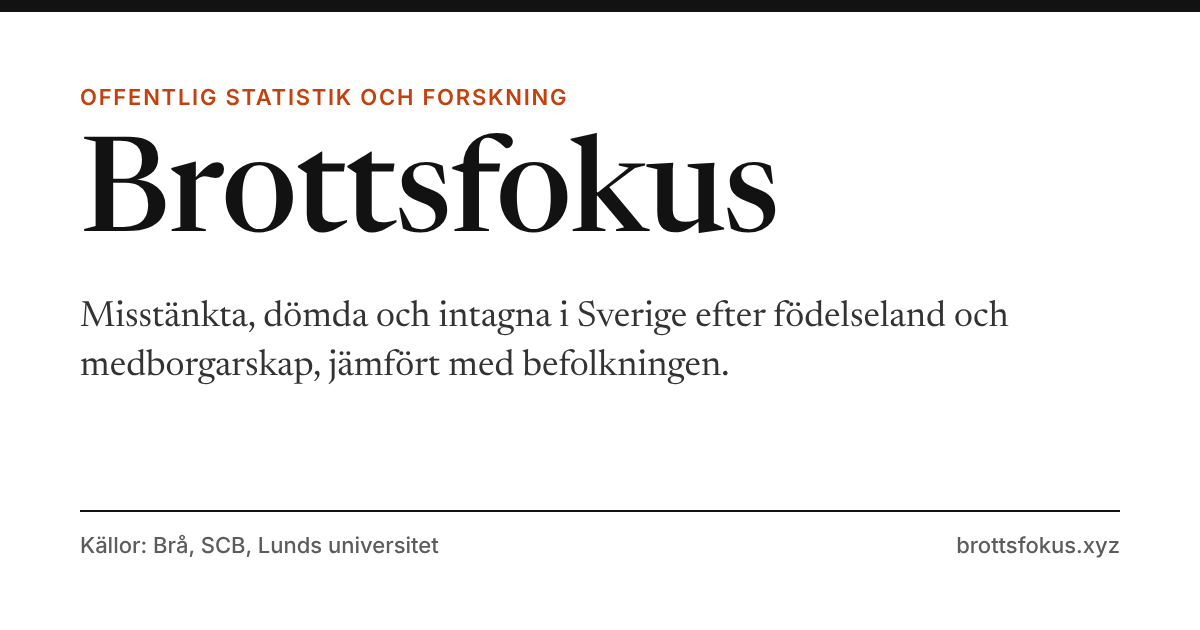
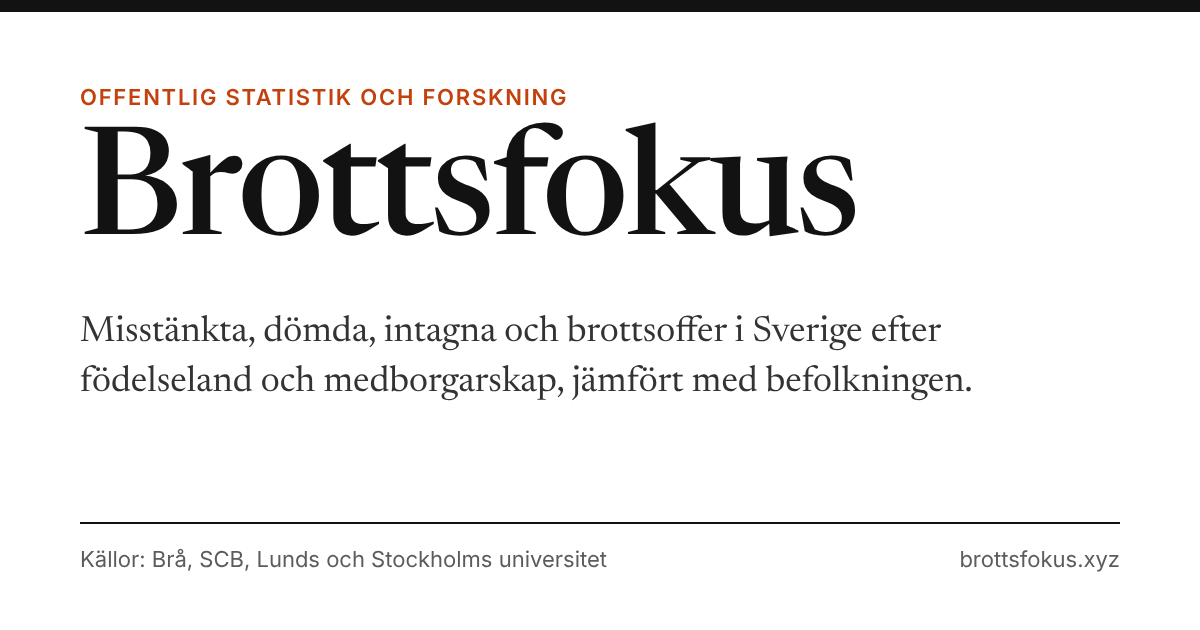
Describe all ten chapters in the masthead, share images and llms.txt
- Masthead and meta description: add victims of crime. Sources line: add
  Stockholms universitet (Bäckman et al.).
- Share image redrawn with the new text, plus an English one (og-en.png)
  used by the English pages. scripts/og-image.cjs draws both from the
  site's own fonts.
- llms.txt: add Stockholms universitet and caveats for the newer chapters
  (different background groupings, the victim survey, unsolved homicides,
  the birth-cohort population).
- Chapter 4 summary (table page and llms.txt): say the population share
  covers all ages and both sexes while the convicted were almost all men 15-60.

Claude-Session: https://claude.ai/code/session_017CY9ZG95hr9Y1RA4eL2mSp

Changed region(s): [[0.0617, 0.181, 0.7092, 0.3921], [0.0617, 0.4825, 0.8325, 0.6333], [0.0617, 0.7841, 0.9558, 0.9048]]

diff --git a/src/lib/tablePageContent.ts b/src/lib/tablePageContent.ts
@@ -528,13 +528,14 @@ function kap4(lang: Lang): TablePageContent {
     lead: T(
       `Av dem som dömdes för våldtäkt mot en kvinna 2000–2015 var ${pct(utr.pct)} utrikesfödda och ` +
         `${pct(u2.pct)} inrikesfödda med två utrikesfödda föräldrar, enligt en registerstudie från Lunds ` +
-        `universitet. I befolkningen var andelarna i snitt ${n(t.popForeignBorn)} och ` +
-        `${pct(t.popTwoForeignParents)}. I en senare studie av dömda 2000–2020 var ` +
+        `universitet. I befolkningen, alla åldrar och båda könen, var andelarna i snitt ${n(t.popForeignBorn)} och ` +
+        `${pct(t.popTwoForeignParents)}. De dömda var nästan bara män 15–60 år. I en senare studie av dömda 2000–2020 var ` +
         `${pct(utrC.pct)} av de dömda utrikesfödda, jämfört med ${pct(utrC.pctControls)} ` +
         'i en kontrollgrupp med samma kön och födelseår.',
       `Of those convicted of rape against a woman in 2000–2015, ${pct(utr.pct)} were born abroad and ${pct(u2.pct)} were born ` +
-        `in Sweden with two foreign-born parents, according to a register study from Lund University. In the population, the ` +
-        `shares were on average ${pct(t.popForeignBorn)} and ${pct(t.popTwoForeignParents)}. In a later study of those convicted ` +
+        `in Sweden with two foreign-born parents, according to a register study from Lund University. In the population, all ages ` +
+        `and both sexes, the shares were on average ${pct(t.popForeignBorn)} and ${pct(t.popTwoForeignParents)}. The convicted were almost all ` +
+        `men aged 15–60. In a later study of those convicted ` +
         `in 2000–2020, ${pct(utrC.pct)} of the convicted were born abroad, compared with ${pct(utrC.pctControls)} in a control ` +
         'group of the same sex and birth year.',
     ),

diff --git a/src/lib/site.ts b/src/lib/site.ts
@@ -12,12 +12,16 @@ export const site = {
     en: 'Brottsfokus: crime, country of birth and citizenship statistics for Sweden',
   } as Record<Lang, string>,
   description: {
-    sv: 'Officiell statistik och forskning om misstänkta, dömda och intagna i Sverige efter födelseland, föräldrarnas födelseland och medborgarskap, jämfört med befolkningen.',
-    en: 'Official statistics and research on suspects, convicted people and prisoners in Sweden, by country of birth, parents’ country of birth and citizenship, compared with the population.',
+    sv: 'Officiell statistik och forskning om misstänkta, dömda, intagna och brottsoffer i Sverige efter födelseland, föräldrarnas födelseland och medborgarskap, jämfört med befolkningen.',
+    en: 'Official statistics and research on suspects, convicted people, prisoners and victims of crime in Sweden, by country of birth, parents’ country of birth and citizenship, compared with the population.',
   } as Record<Lang, string>,
   // Build date in Swedish time (ISO, e.g. "2026-11-13"). The masthead shows month and year.
   updated: new Intl.DateTimeFormat('sv-SE', { timeZone: 'Europe/Stockholm' }).format(new Date()),
-  shareImage: 'https://brottsfokus.xyz/og.png',
+  // Drawn by scripts/og-image.cjs. One per language.
+  shareImage: {
+    sv: 'https://brottsfokus.xyz/og.png',
+    en: 'https://brottsfokus.xyz/og-en.png',
+  } as Record<Lang, string>,
   // Terms for the tables and CSV files the site publishes. Brå lets its statistics be reused
   // freely if Brå is named; SCB publishes under CC BY 4.0. CC BY 4.0 keeps both requirements.
   dataLicense: {

diff --git a/src/lib/markdown.ts b/src/lib/markdown.ts
@@ -82,7 +82,7 @@ export function llmsTxt(
     '',
     `> ${site.description.sv}`,
     '',
-    'Sidan sammanställer offentlig statistik och forskning från Brå, SCB och Lunds universitet. Varje siffra har en källa. ' +
+    'Sidan sammanställer offentlig statistik och forskning från Brå, SCB, Lunds universitet och Stockholms universitet. Varje siffra har en källa. ' +
       'Sidan drar inga egna slutsatser och tar inte ställning. Det finns också en engelsk version under /en/.',
     '',
     'Viktigt när siffrorna används:',
@@ -92,6 +92,10 @@ export function llmsTxt(
     '- Medborgarskap är inte födelseland. Fängelsestatistiken omfattar personer som inte bor i Sverige och inte finns i befolkningssiffrorna.',
     '- Studierna om våldtäkt gäller dömda, inte alla som begår brottet.',
     '- Brås studie från 2005 bygger på uppgifter som är över 20 år gamla.',
+    '- Indelningen efter bakgrund skiljer sig mellan källorna, till exempel vad som räknas som utländsk bakgrund. Varje sida anger vilken indelning som används.',
+    '- Siffrorna om att utsättas för brott bygger på en enkät till personer 16–84 år och gäller även brott som inte anmälts.',
+    '- Vid dödligt våld saknas gärningspersoner i de fall som inte klarats upp, vilket är vanligast vid dödligt våld i kriminell miljö.',
+    '- Statistiken över lagförda efter födelseår räknar bara den som var folkbokförd i Sverige vid 15 års ålder.',
     '',
     '## Tabeller',
     '',
